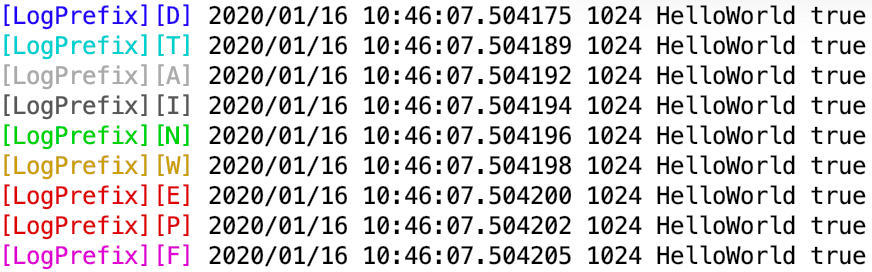
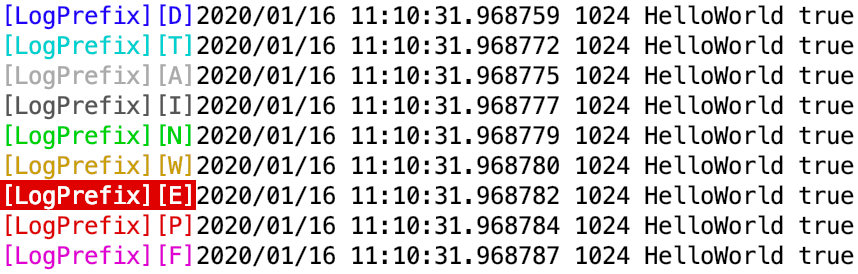
update err color

diff --git a/log.go b/log.go
@@ -50,6 +50,7 @@ var (
 	errorLogger  *log.Logger
 	panicLogger  *log.Logger
 	fatalLogger  *log.Logger
+	redBg        = string([]byte{27, 91, 57, 55, 59, 52, 49, 109})
 	black        = string([]byte{27, 91, 57, 48, 109})
 	red          = string([]byte{27, 91, 51, 49, 109})
 	green        = string([]byte{27, 91, 51, 50, 109})
@@ -68,15 +69,15 @@ func init() {
 }
 
 func initLog() {
-	debugLogger = log.New(out, blue+"["+logPrefix+"][D] "+reset, log.Ldate|log.Ltime|log.Lmicroseconds|log.LUTC)
-	traceLogger = log.New(out, cyan+"["+logPrefix+"][T] "+reset, log.Ldate|log.Ltime|log.Lmicroseconds|log.LUTC)
-	allLogger = log.New(out, white+"["+logPrefix+"][A] "+reset, log.Ldate|log.Ltime|log.Lmicroseconds|log.LUTC)
-	infoLogger = log.New(out, black+"["+logPrefix+"][I] "+reset, log.Ldate|log.Ltime|log.Lmicroseconds|log.LUTC)
-	noticeLogger = log.New(out, green+"["+logPrefix+"][N] "+reset, log.Ldate|log.Ltime|log.Lmicroseconds|log.LUTC)
-	warnLogger = log.New(out, yellow+"["+logPrefix+"][W] "+reset, log.Ldate|log.Ltime|log.Lmicroseconds|log.LUTC)
-	errorLogger = log.New(out, red+"["+logPrefix+"][E] "+reset, log.Ldate|log.Ltime|log.Lmicroseconds|log.LUTC)
-	panicLogger = log.New(out, red+"["+logPrefix+"][P] "+reset, log.Ldate|log.Ltime|log.Lmicroseconds|log.LUTC)
-	fatalLogger = log.New(out, magenta+"["+logPrefix+"][F] "+reset, log.Ldate|log.Ltime|log.Lmicroseconds|log.LUTC)
+	debugLogger = log.New(out, blue+"["+logPrefix+"][D]"+reset, log.Ldate|log.Ltime|log.Lmicroseconds|log.LUTC)
+	traceLogger = log.New(out, cyan+"["+logPrefix+"][T]"+reset, log.Ldate|log.Ltime|log.Lmicroseconds|log.LUTC)
+	allLogger = log.New(out, white+"["+logPrefix+"][A]"+reset, log.Ldate|log.Ltime|log.Lmicroseconds|log.LUTC)
+	infoLogger = log.New(out, black+"["+logPrefix+"][I]"+reset, log.Ldate|log.Ltime|log.Lmicroseconds|log.LUTC)
+	noticeLogger = log.New(out, green+"["+logPrefix+"][N]"+reset, log.Ldate|log.Ltime|log.Lmicroseconds|log.LUTC)
+	warnLogger = log.New(out, yellow+"["+logPrefix+"][W]"+reset, log.Ldate|log.Ltime|log.Lmicroseconds|log.LUTC)
+	errorLogger = log.New(out, redBg+"["+logPrefix+"][E]"+reset, log.Ldate|log.Ltime|log.Lmicroseconds|log.LUTC)
+	panicLogger = log.New(out, red+"["+logPrefix+"][P]"+reset, log.Ldate|log.Ltime|log.Lmicroseconds|log.LUTC)
+	fatalLogger = log.New(out, magenta+"["+logPrefix+"][F]"+reset, log.Ldate|log.Ltime|log.Lmicroseconds|log.LUTC)
 }
 
 //SetPrefix sets log's prefix
